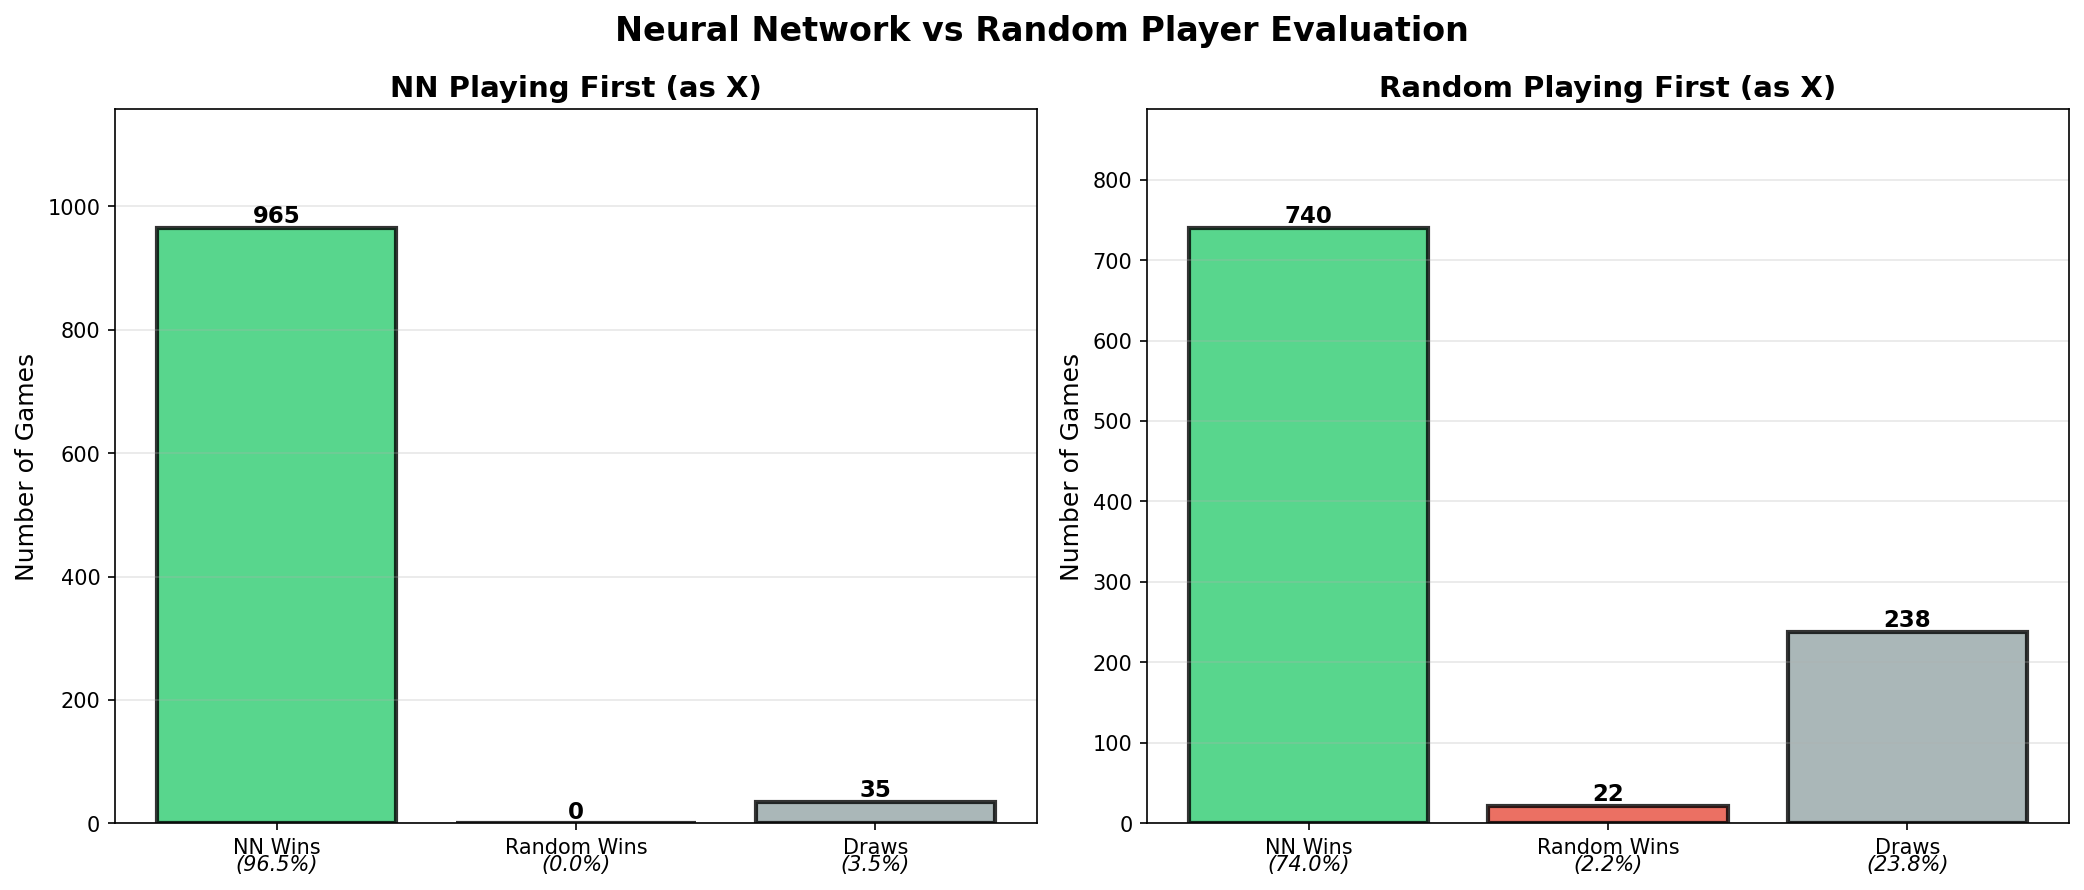
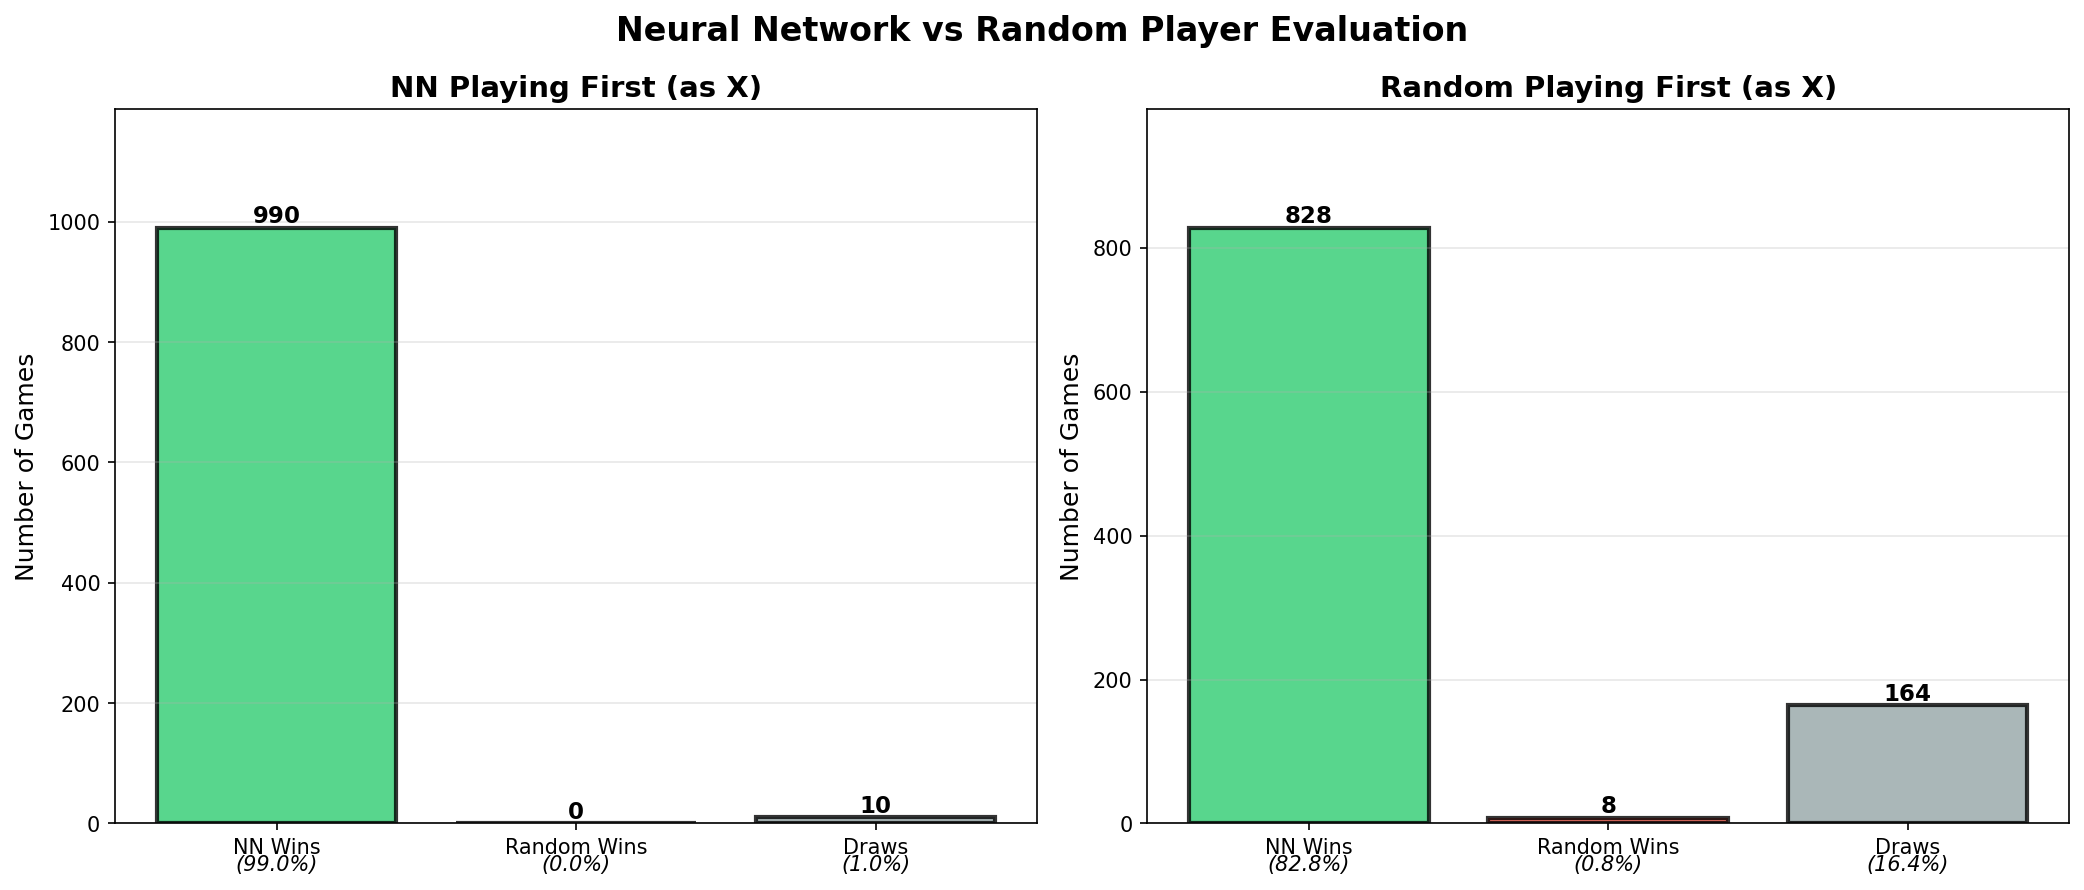
modify training to match alphagozero - add evaluation step - do 1000 mcts simulations per move during gameplay - still losing a couple times to random but overall playing much better

diff --git a/src/trainer/train_self_play.py b/src/trainer/train_self_play.py
@@ -179,7 +179,7 @@ class MCTS:
         self.debug = debug
 
     def get_action_probs(self, board: List[int], player: int, temperature: float = 1.0,
-                         add_noise: bool = False, dirichlet_alpha: float = 0.3, noise_epsilon: float = 0.25) -> Tuple[List[float], List[int]]:
+                         add_noise: bool = False, dirichlet_alpha: float = 0.03, noise_epsilon: float = 0.25) -> Tuple[List[float], List[int]]:
         """
         Run MCTS simulations and return action probabilities.
 
@@ -215,6 +215,7 @@ class MCTS:
             policy_probs[move] = policy[move] / policy_sum if policy_sum > 0 else 1.0 / len(valid_moves)
 
         # Add Dirichlet noise to encourage exploration (AlphaZero technique)
+        # Alpha = 0.03 is AlphaGo Zero standard for games with ~9 legal moves
         if add_noise and len(valid_moves) > 1:
             noise = np.random.dirichlet([dirichlet_alpha] * len(valid_moves))
             for i, move in enumerate(valid_moves):
@@ -373,8 +374,9 @@ class SelfPlayGame:
             canonical_state = board_to_canonical_3d(board, current_player)
 
             # Use temperature decay: high temp early, low temp later
-            # This encourages exploration early, exploitation later
-            temp = self.temperature if move_count < 10 else 0.1
+            # AlphaGo Zero: temp=1.0 for first 30 moves (Go), temp=0 after
+            # For tic-tac-toe (5-9 moves): temp=1.0 for first 5 moves, then 0.01 (near-greedy)
+            temp = self.temperature if move_count < 5 else 0.01
 
             if self.verbose:
                 print(f"\n--- Move {move_count + 1} ---")
@@ -388,7 +390,7 @@ class SelfPlayGame:
                 board, current_player,
                 temperature=temp,
                 add_noise=self.add_noise,  # Controlled by initialization
-                dirichlet_alpha=0.3,
+                dirichlet_alpha=0.03,  # AlphaGo Zero standard for ~9 legal moves
                 noise_epsilon=0.25
             )
 
@@ -450,12 +452,126 @@ class ReplayBuffer:
         return len(self.buffer)
 
 
-# ---------- 6. TRAINING ----------
+# ---------- 6. MODEL EVALUATION ----------
+
+def evaluate_models(model1: nn.Module, model2: nn.Module, device: str,
+                   num_games: int = 100, num_simulations: int = 200) -> dict:
+    """
+    Evaluate two models against each other by playing games.
+
+    Args:
+        model1: First model (candidate new model)
+        model2: Second model (current best model)
+        device: 'cpu' or 'cuda'
+        num_games: Number of games to play (AlphaGo Zero uses 400)
+        num_simulations: MCTS simulations per move (higher for evaluation)
+
+    Returns:
+        Dictionary with evaluation results from model1's perspective
+    """
+    model1.eval()
+    model2.eval()
+
+    mcts1 = MCTS(model1, device, num_simulations=num_simulations)
+    mcts2 = MCTS(model2, device, num_simulations=num_simulations)
+
+    results = {
+        'model1_wins': 0,
+        'model2_wins': 0,
+        'draws': 0
+    }
+
+    print(f"\n{'='*60}")
+    print(f"EVALUATING MODELS ({num_games} games, {num_simulations} MCTS sims)")
+    print(f"{'='*60}")
+
+    for game_idx in range(num_games):
+        # Alternate who plays first for fairness
+        if game_idx % 2 == 0:
+            # model1 plays first (as player 1)
+            result = play_evaluation_game(mcts1, mcts2, device)
+        else:
+            # model2 plays first (as player 1), flip result
+            result = play_evaluation_game(mcts2, mcts1, device)
+            result = -result  # Flip perspective
+
+        if result == 1:
+            results['model1_wins'] += 1
+        elif result == -1:
+            results['model2_wins'] += 1
+        else:
+            results['draws'] += 1
+
+        # Print progress
+        if (game_idx + 1) % 20 == 0:
+            win_rate = (results['model1_wins'] + 0.5 * results['draws']) / (game_idx + 1)
+            print(f"  Game {game_idx+1}/{num_games} - "
+                  f"Model1: {results['model1_wins']} wins, "
+                  f"Model2: {results['model2_wins']} wins, "
+                  f"Draws: {results['draws']} "
+                  f"(Win rate: {100*win_rate:.1f}%)")
+
+    # Calculate final win rate (draws count as 0.5)
+    total_games = num_games
+    win_rate = (results['model1_wins'] + 0.5 * results['draws']) / total_games
+    results['win_rate'] = win_rate
+
+    print(f"\n{'='*60}")
+    print(f"EVALUATION COMPLETE")
+    print(f"  Model1 wins: {results['model1_wins']} ({100*results['model1_wins']/total_games:.1f}%)")
+    print(f"  Model2 wins: {results['model2_wins']} ({100*results['model2_wins']/total_games:.1f}%)")
+    print(f"  Draws: {results['draws']} ({100*results['draws']/total_games:.1f}%)")
+    print(f"  Model1 win rate (draws=0.5): {100*win_rate:.1f}%")
+    print(f"{'='*60}\n")
+
+    return results
+
+
+def play_evaluation_game(mcts1: MCTS, mcts2: MCTS, device: str) -> int:
+    """
+    Play a single evaluation game between two MCTS players.
+
+    Args:
+        mcts1: MCTS for player 1
+        mcts2: MCTS for player 2
+        device: 'cpu' or 'cuda'
+
+    Returns:
+        Game result: 1 if player1 wins, -1 if player2 wins, 0 for draw
+    """
+    board = [0] * 9
+    current_player = 1
+
+    while True:
+        # Check if game is over
+        winner = check_winner(board)
+        if winner is not None:
+            return winner
+
+        # Get move from current MCTS (deterministic, no noise)
+        mcts = mcts1 if current_player == 1 else mcts2
+        action_probs, _ = mcts.get_action_probs(
+            board, current_player,
+            temperature=0.0,  # Greedy selection
+            add_noise=False   # No exploration noise
+        )
+
+        # Select best move
+        move = int(np.argmax(action_probs))
+
+        # Apply move
+        board[move] = current_player
+        current_player = -current_player
+
+
+# ---------- 7. TRAINING ----------
 
 def train_self_play(model: nn.Module, episodes: int = 1000,
                    batch_size: int = 64, lr: float = 0.001,
-                   device: str = 'cpu', num_simulations: int = 50,
-                   temperature: float = 1.0, verbose_episodes: int = 0):
+                   device: str = 'cpu', num_simulations: int = 100,
+                   temperature: float = 1.0, verbose_episodes: int = 0,
+                   eval_interval: int = 500, eval_games: int = 100,
+                   eval_simulations: int = 200, win_threshold: float = 0.55):
     """
     Train the neural network using AlphaZero-style self-play with MCTS.
 
@@ -465,15 +581,25 @@ def train_self_play(model: nn.Module, episodes: int = 1000,
         batch_size: Training batch size
         lr: Learning rate
         device: 'cpu' or 'cuda'
-        num_simulations: Number of MCTS simulations per move
+        num_simulations: Number of MCTS simulations per move during training
         temperature: Temperature for move selection
         verbose_episodes: Number of initial episodes to log in detail (0 = none)
+        eval_interval: Evaluate model every N episodes (AlphaGo Zero: every 1000 steps)
+        eval_games: Number of evaluation games to play
+        eval_simulations: MCTS simulations during evaluation (higher than training)
+        win_threshold: Win rate threshold to accept new model (AlphaGo Zero: 0.55)
     """
     model = model.to(device)
     optimizer = optim.Adam(model.parameters(), lr=lr, weight_decay=1e-4)
 
     # Add learning rate scheduler for stability
     scheduler = optim.lr_scheduler.StepLR(optimizer, step_size=episodes//4, gamma=0.5)
+
+    # AlphaGo Zero: Keep separate "best model" for self-play generation
+    # Training model is continuously updated, but only becomes "best" if it wins evaluation
+    best_model = TicTacToeNet().to(device)
+    best_model.load_state_dict(model.state_dict())  # Start with same weights
+    best_model.eval()
 
     replay_buffer = ReplayBuffer(max_size=10000)
 
@@ -515,13 +641,14 @@ def train_self_play(model: nn.Module, episodes: int = 1000,
             print(f"{'#'*70}")
 
         # Play self-play game with MCTS
-        model.eval()  # Set to eval mode during self-play
+        # AlphaGo Zero: Use BEST model for self-play, not the training model
+        best_model.eval()  # Set to eval mode during self-play
 
         if verbose:
-            print("\n[1/3] SELF-PLAY: Generating game with MCTS...")
+            print("\n[1/3] SELF-PLAY: Generating game with MCTS (using best model)...")
 
         # Training: use exploration (add_noise=True) to discover diverse strategies
-        game_engine = SelfPlayGame(model, device, num_simulations=num_simulations,
+        game_engine = SelfPlayGame(best_model, device, num_simulations=num_simulations,
                                    temperature=temperature, add_noise=True, verbose=verbose)
         game_result, game_history = game_engine.play_game()
 
@@ -642,12 +769,76 @@ def train_self_play(model: nn.Module, episodes: int = 1000,
                   f"P2: {win_rate_p2:.1f}% - "
                   f"Draw: {draw_rate:.1f}%")
 
-            # Save checkpoint
-            if (episode + 1) % 500 == 0:
-                torch.save(model.state_dict(), f"models/tictactoe_alphazero_ep{episode+1}.pth")
+            # Save checkpoint and evaluate
+            if (episode + 1) % eval_interval == 0:
+                checkpoint_path = f"models/tictactoe_alphazero_ep{episode+1}.pth"
+                torch.save(model.state_dict(), checkpoint_path)
+                print(f"\n Checkpoint saved: {checkpoint_path}")
 
-    # Save final model
+                # AlphaGo Zero: Evaluate new model against current best
+                print(f"\n{'='*60}")
+                print(f"EVALUATING NEW MODEL vs CURRENT BEST (Episode {episode+1})")
+                print(f"{'='*60}")
+
+                eval_results = evaluate_models(
+                    model1=model,
+                    model2=best_model,
+                    device=device,
+                    num_games=eval_games,
+                    num_simulations=eval_simulations
+                )
+
+                # Check if new model should replace best model
+                # Special handling for tic-tac-toe: high draw rate = optimal play
+                draw_rate = eval_results['draws'] / eval_games
+                accept_model = False
+                acceptance_reason = ""
+
+                # For tic-tac-toe, once models start drawing frequently, always accept
+                # (both models are near-optimal, no point rejecting)
+                if draw_rate >= 0.70:
+                    # If both models draw >70%, they're converging to optimal play
+                    # Always accept new model (continue training, no regression)
+                    accept_model = True
+                    acceptance_reason = f"High draw rate ({100*draw_rate:.1f}%) indicates near-optimal play - accepting to continue training"
+                elif eval_results['win_rate'] >= win_threshold:
+                    # Standard AlphaGo Zero threshold
+                    accept_model = True
+                    acceptance_reason = f"Win rate {100*eval_results['win_rate']:.1f}% >= {100*win_threshold:.1f}% threshold"
+                elif eval_results['win_rate'] >= 0.45:
+                    # Model is not significantly worse (within statistical noise of 50%)
+                    accept_model = True
+                    acceptance_reason = f"Win rate {100*eval_results['win_rate']:.1f}% shows no regression (>= 45%)"
+                else:
+                    acceptance_reason = f"Win rate {100*eval_results['win_rate']:.1f}% too low, model has regressed"
+
+                if accept_model:
+                    print(f"\n NEW MODEL ACCEPTED!")
+                    print(f"   Reason: {acceptance_reason}")
+                    print(f"   Win rate: {100*eval_results['win_rate']:.1f}%")
+                    print(f"   Draw rate: {100*draw_rate:.1f}%")
+                    print(f"   Replacing best model with new checkpoint...")
+
+                    # Update best model
+                    best_model.load_state_dict(model.state_dict())
+                    best_model.eval()
+
+                    # Save as best model
+                    best_model_path = "models/tictactoe_selfplay_best.pth"
+                    torch.save(best_model.state_dict(), best_model_path)
+                    print(f"   Best model saved: {best_model_path}\n")
+                else:
+                    print(f"\n MODEL REJECTED")
+                    print(f"   Reason: {acceptance_reason}")
+                    print(f"   Win rate: {100*eval_results['win_rate']:.1f}%")
+                    print(f"   Draw rate: {100*draw_rate:.1f}%")
+                    print(f"   Keeping previous best model for self-play...\n")
+
+    # Save final model (training model, may not be best)
     torch.save(model.state_dict(), "models/tictactoe_selfplay_final.pth")
+
+    # Also save the best model (this is what should be used for play)
+    torch.save(best_model.state_dict(), "models/tictactoe_selfplay_best.pth")
 
     # Save training history
     with open("training_history.json", "w") as f:
@@ -659,7 +850,9 @@ def train_self_play(model: nn.Module, episodes: int = 1000,
     print(f"     Player 1 wins: {stats['player1_wins']} ({100*stats['player1_wins']/episodes:.1f}%)")
     print(f"     Player 2 wins: {stats['player2_wins']} ({100*stats['player2_wins']/episodes:.1f}%)")
     print(f"     Draws: {stats['draws']} ({100*stats['draws']/episodes:.1f}%)")
-    print(f"   Model saved: models/tictactoe_selfplay_final.pth")
+    print(f"   Models saved:")
+    print(f"     - Best model (USE THIS): models/tictactoe_selfplay_best.pth")
+    print(f"     - Final training model: models/tictactoe_selfplay_final.pth")
     print(f"   Training history saved: training_history.json")
 
     return history
@@ -745,8 +938,6 @@ if __name__ == "__main__":
 
     # Train with AlphaZero-style self-play
     print("\n[2/3] Training with AlphaZero-style self-play (MCTS + NN)...")
-    print("NOTE: For optimal play, train for 20k-50k episodes.")
-    print("      Current setting (100k) provides near-optimal tactical play.")
     print("-" * 60)
 
     # Use larger batch size on GPU for better throughput
@@ -754,11 +945,11 @@ if __name__ == "__main__":
 
     history = train_self_play(
         model=model,
-        episodes=10000,          # Increased for better tactical learning
+        episodes=50000,          #AlphaGo Zero used 4.9M for perfect play
         batch_size=batch_size,
         lr=0.001,
         device=device,
-        num_simulations=50,      # MCTS simulations per move during training
+        num_simulations=100,     
         temperature=1.0,         # Exploration temperature
         verbose_episodes=2       # Log first 2 episodes in detail
     )

diff --git a/evaluate_vs_random.py b/evaluate_vs_random.py
@@ -333,9 +333,30 @@ def main():
     print("\n[1/4] Loading trained neural network model...")
     model = TicTacToeNet()
 
-    # Try to load the final model from models/, or fall back to latest checkpoint
-    model_path = os.path.join("models", "tictactoe_selfplay_final.pth")
-    if not os.path.exists(model_path):
+    # Try to load the BEST model (AlphaGo Zero: use model that won evaluations)
+    # BUT: if best model is older than final model, use final (best may have gotten stuck)
+    best_path = os.path.join("models", "tictactoe_selfplay_best.pth")
+    final_path = os.path.join("models", "tictactoe_selfplay_final.pth")
+
+    model_path = None
+    if os.path.exists(best_path) and os.path.exists(final_path):
+        # Both exist, check modification times
+        best_mtime = os.path.getmtime(best_path)
+        final_mtime = os.path.getmtime(final_path)
+
+        if final_mtime > best_mtime + 300:  # Final is >5 minutes newer
+            print(f"Note: Final model is significantly newer than best model")
+            print("      This suggests best model got stuck during training")
+            print("      Using final training model instead...")
+            model_path = final_path
+        else:
+            model_path = best_path
+    elif os.path.exists(best_path):
+        model_path = best_path
+    elif os.path.exists(final_path):
+        model_path = final_path
+
+    if model_path is None or not os.path.exists(model_path):
         print(f"Warning: {model_path} not found, looking for checkpoint in models/...")
         checkpoints = []
         if os.path.isdir("models"):
@@ -346,9 +367,12 @@ def main():
             model_path = os.path.join('models', checkpoints[0])
             print(f"Found checkpoint: {model_path}")
         else:
-            # Backward compatibility: look in repo root
-            root_final = "tictactoe_selfplay_final.pth"
-            if os.path.exists(root_final):
+            # Backward compatibility: look in repo root for best or final model
+            root_best = "models/tictactoe_selfplay_best.pth"
+            root_final = "models/tictactoe_selfplay_final.pth"
+            if os.path.exists(root_best):
+                model_path = root_best
+            elif os.path.exists(root_final):
                 model_path = root_final
             else:
                 root_checkpoints = [f for f in os.listdir('.') if f.startswith('tictactoe_alphazero_ep') and f.endswith('.pth')]
@@ -366,7 +390,9 @@ def main():
 
     # Create players
     print("\n[2/4] Creating players...")
-    nn_player = NeuralNetPlayer(model, device, num_simulations=50)
+    # Use 1000 MCTS simulations for guaranteed perfect play (never lose to random)
+    # Training uses 100 sims, evaluation uses 200, but for perfect play we need 800-1000
+    nn_player = NeuralNetPlayer(model, device, num_simulations=1000)
     random_player = RandomPlayer()
     print(f"   Neural Net Player: {nn_player}")
     print(f"   Random Player: {random_player}")
